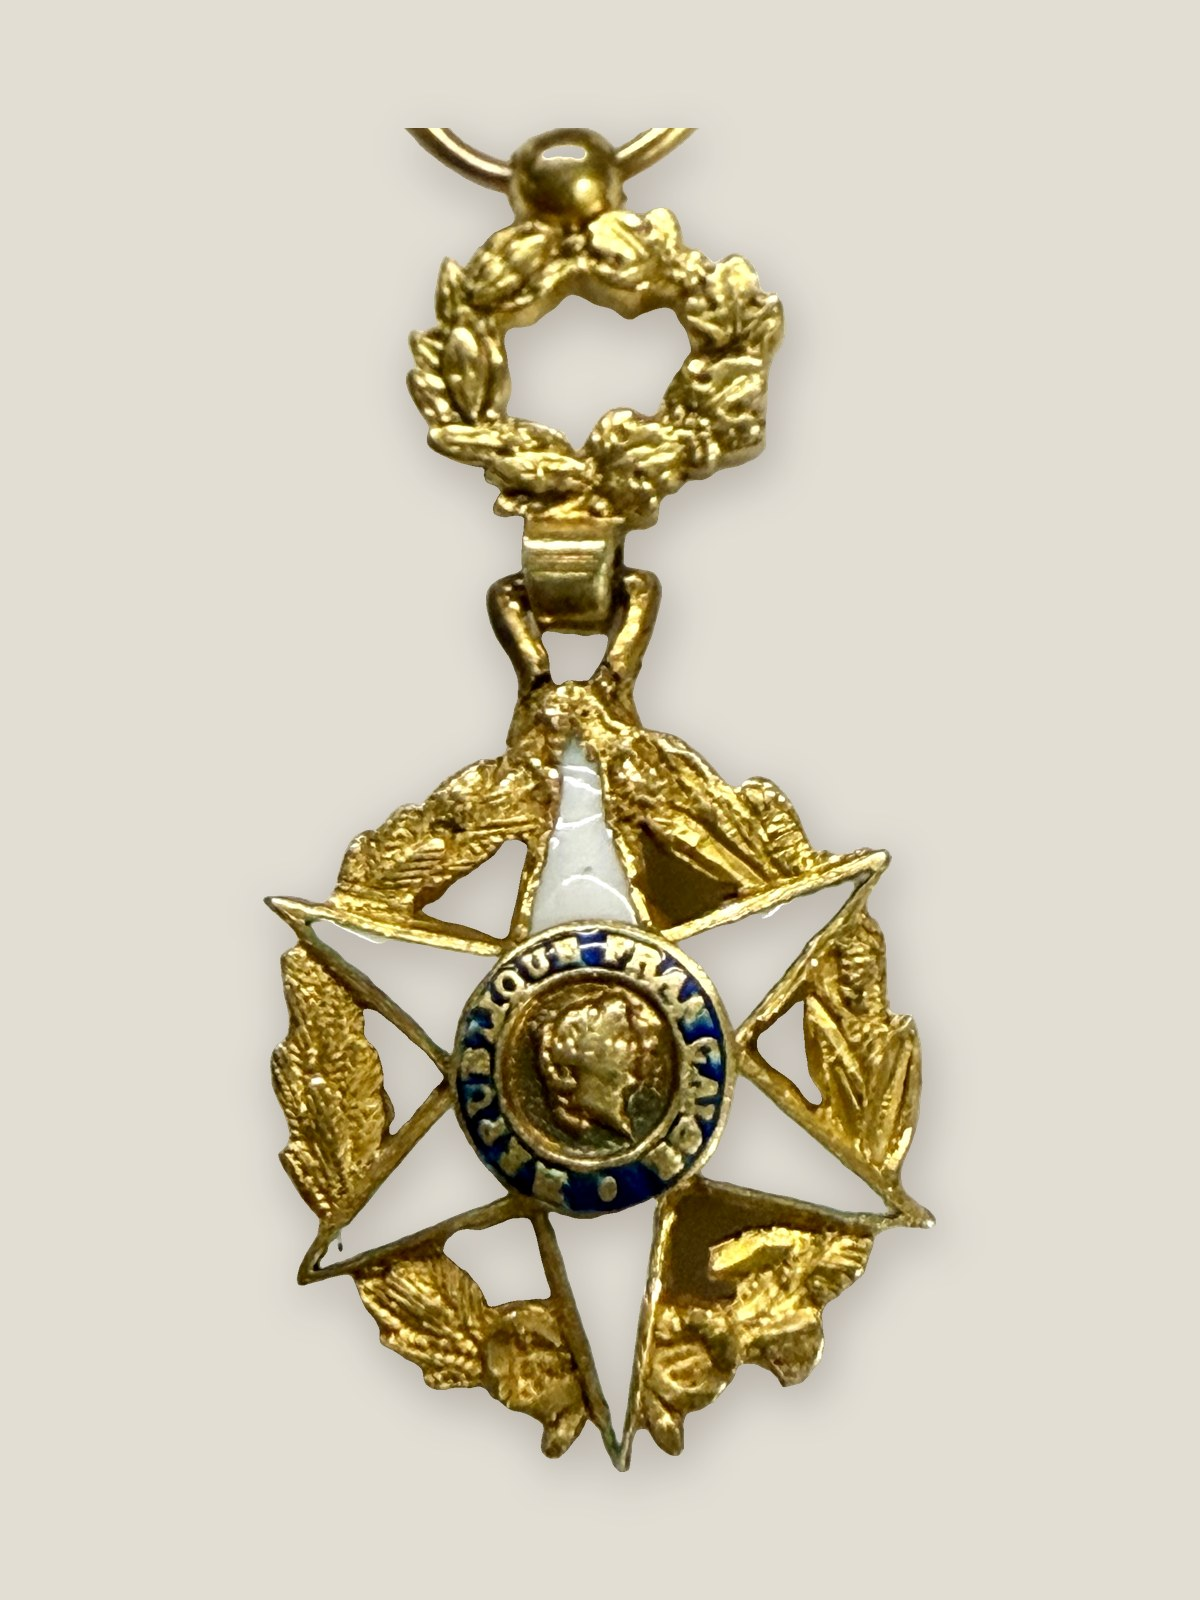
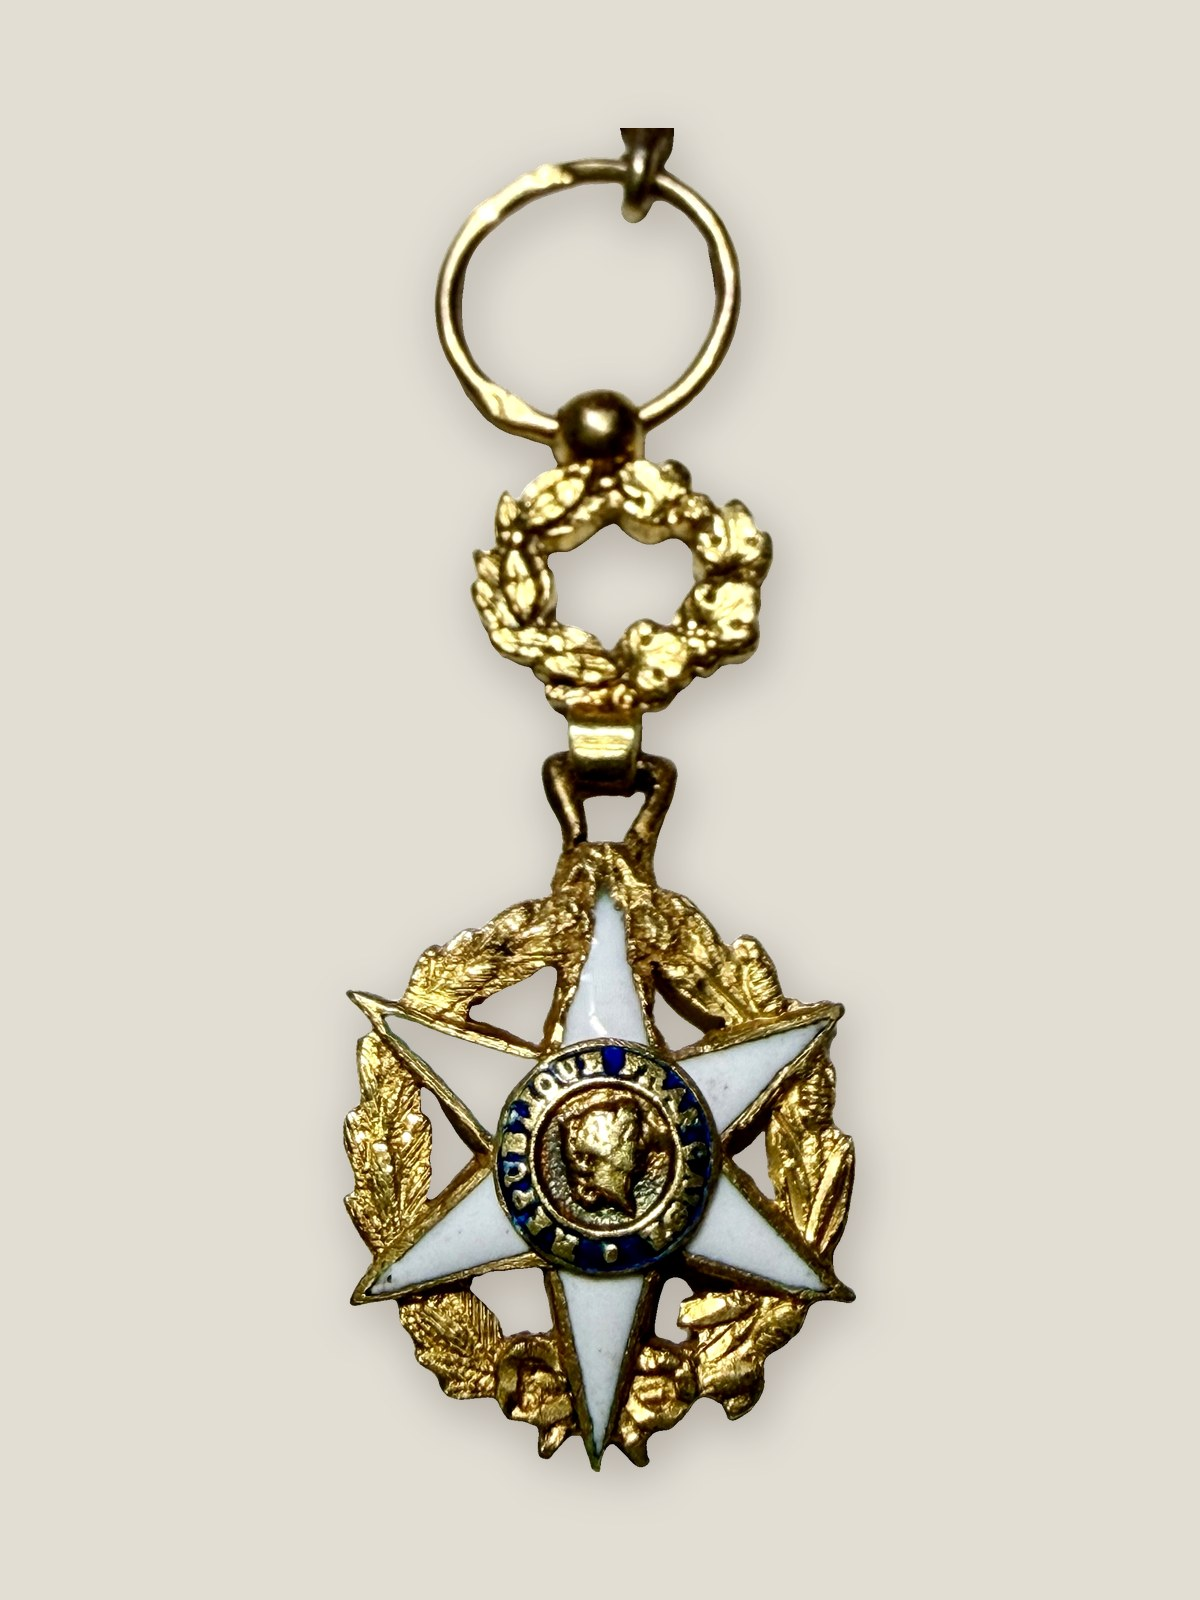
c016 农业功绩正面特写换为重拍照，补回白珐琅星臂
Claude-Session: https://claude.ai/code/session_0146WwfpqSoST3wS5kAsYEcA

Changed region(s): [[0.2158, 0.0625, 0.7708, 0.9375]]

diff --git a/tools/standardize.py b/tools/standardize.py
@@ -60,8 +60,10 @@ CHRONICLE_FIT = {"c006b", "c015b"}
 # Group photographs used as article covers that are cut out like item covers: id -> folder
 EXTRA_CUT_OUT = {"r016": "regalia"}
 # Cut-outs that drop a part close to the ground tone (white enamel): source-pixel seeds whose enclosed transparent
-# region is filled back in. c016g: the upper arm of the Merite agricole star, enclosed by the suspension legs.
-FILL_HOLE = {"c016g": [(1436, 1500)]}
+# region is filled back in. c016g: the upper arm of the Merite agricole star, enclosed by the suspension legs;
+# c016d: the six arms of the same star seen from the front.
+FILL_HOLE = {"c016g": [(1436, 1500)],
+             "c016d": [(900, 1570), (640, 1700), (1180, 1710), (600, 2090), (1220, 2090), (900, 2250)]}
 
 
 def source(folder, name):

diff --git a/_notes/站点手册.md b/_notes/站点手册.md
@@ -216,7 +216,7 @@
 
 ## 六、待办与待补
 
-- t028 与 c016 的照片已于 2026 年 10 月到货，全部抠图置浅灰米底，补足 3:4（曾试 3:2 横图，策展人定仍用 3:4）。同月策展人另交一组六张替换首批：封面为链条 U 形下垂、两针朝上的正面照；札记 grid6 两列三行，第一行为整链正面与背面，以下依次为学术棕榈、农业功绩勋章、互助会奖章、突尼斯荣耀勋章的正面特写（c016b 背面，c016c–c016f 特写），左上、右上、左下、右下。四张特写原照顶端裁到吊环，抠图后吊环顶端为直边。首批原图存 `_archive/treasures/t028_v1.jpg` 与 `_archive/chronicles/c016b_v1.jpg`–`c016f_v1.jpg`。整链正面与背面随后换为策展人调亮的版本，前一版存 `_archive/treasures/t028_v2.jpg` 与 `_archive/chronicles/c016b_v2.jpg`。封面其后再换一次策展人新交的正面照，上一版存 `_archive/treasures/t028_v3.jpg`。学术棕榈特写 c016c 随后换为策展人重拍的近照（1512×2016，三张候选中对焦最完整的一张，花枝下半部亦清晰），按策展人指定调整后作原图：亮度 ×1.12 再 ×1.30，对比度以中灰 128 为轴加 10%（不以全图均值为轴，否则浅色背景会把暗色器物压暗）；未调整的相机原片存 `_archive/chronicles/c016c_raw.jpg`，上一版存 `_archive/chronicles/c016c_v2.jpg`。新照吊环完整入画，顶端仅链上跳环出画。组图其后增 c016g：互助会奖章与农业功绩勋章的背面并列（策展人摄，两张候选中取铭文较清晰的一张，「MÉRITE AGRICOLE 1883」与「劳动与社会保障部」环铭均可读），置于组图末位。原片上方的狐尾链斜穿画面，抠图前以修补（inpainting）抹去，只留两环顶端的跳环残段，与其余特写顶端处理一致；之后亮度 ×1.10、对比度以中灰为轴加 10%。未照搬 c016c 的 ×1.456：本张原片较亮，那样会使背景发白而被当成器物抠入、白珐琅大片过曝。抠图时星形上臂的白珐琅因与底色过近被模型丢掉，`standardize.py` 的 `FILL_HOLE` 以一个种子点把这块封闭区域补回并从原片取色。未处理的相机原片存 `_archive/chronicles/c016g_raw.jpg`。同月按曝光对齐四张正面特写：以章体亮部（第 90 百分位亮度）为准，学术棕榈 165、农业功绩 190 已在合理区间，不动；互助会奖章 c016e 只加对比度 10%，突尼斯荣耀勋章 c016f 亮度 ×1.07 并加对比度 10%（均以中灰为轴），调后为 173 与 163。未照搬学术棕榈的 ×1.456：那样农业功绩白珐琅过曝约 14%、互助会约 10%，组图反而更不齐。学术棕榈在组图中仍显最暗，原因是深紫珐琅、氧化银面与玫瑰切钻本身吸光，不是曝光不足。调整前的原图存 `_archive/chronicles/c016e_v2.jpg`、`c016f_v2.jpg`。随后补入柬埔寨莫尼萨拉蓬特写 c016h（策展人摄），按链上次序置于突尼斯之后、两章背面之前，组图共八张，桌面两列四行齐整。原片顶端露出狐尾链，以 `CROP_TOP` 裁去顶部 4%，只留跳环残段；只加对比度 10%（以中灰为轴），亮度不动：此章为氧化银，抠图流程的温和归一已把亮部拉到与金色吊环一致，再提亮只增加过曝。未处理的相机原片存 `_archive/chronicles/c016h_raw.jpg`。
+- t028 与 c016 的照片已于 2026 年 10 月到货，全部抠图置浅灰米底，补足 3:4（曾试 3:2 横图，策展人定仍用 3:4）。同月策展人另交一组六张替换首批：封面为链条 U 形下垂、两针朝上的正面照；札记 grid6 两列三行，第一行为整链正面与背面，以下依次为学术棕榈、农业功绩勋章、互助会奖章、突尼斯荣耀勋章的正面特写（c016b 背面，c016c–c016f 特写），左上、右上、左下、右下。四张特写原照顶端裁到吊环，抠图后吊环顶端为直边。首批原图存 `_archive/treasures/t028_v1.jpg` 与 `_archive/chronicles/c016b_v1.jpg`–`c016f_v1.jpg`。整链正面与背面随后换为策展人调亮的版本，前一版存 `_archive/treasures/t028_v2.jpg` 与 `_archive/chronicles/c016b_v2.jpg`。封面其后再换一次策展人新交的正面照，上一版存 `_archive/treasures/t028_v3.jpg`。学术棕榈特写 c016c 随后换为策展人重拍的近照（1512×2016，三张候选中对焦最完整的一张，花枝下半部亦清晰），按策展人指定调整后作原图：亮度 ×1.12 再 ×1.30，对比度以中灰 128 为轴加 10%（不以全图均值为轴，否则浅色背景会把暗色器物压暗）；未调整的相机原片存 `_archive/chronicles/c016c_raw.jpg`，上一版存 `_archive/chronicles/c016c_v2.jpg`。新照吊环完整入画，顶端仅链上跳环出画。组图其后增 c016g：互助会奖章与农业功绩勋章的背面并列（策展人摄，两张候选中取铭文较清晰的一张，「MÉRITE AGRICOLE 1883」与「劳动与社会保障部」环铭均可读），置于组图末位。原片上方的狐尾链斜穿画面，抠图前以修补（inpainting）抹去，只留两环顶端的跳环残段，与其余特写顶端处理一致；之后亮度 ×1.10、对比度以中灰为轴加 10%。未照搬 c016c 的 ×1.456：本张原片较亮，那样会使背景发白而被当成器物抠入、白珐琅大片过曝。抠图时星形上臂的白珐琅因与底色过近被模型丢掉，`standardize.py` 的 `FILL_HOLE` 以一个种子点把这块封闭区域补回并从原片取色。未处理的相机原片存 `_archive/chronicles/c016g_raw.jpg`。同月按曝光对齐四张正面特写：以章体亮部（第 90 百分位亮度）为准，学术棕榈 165、农业功绩 190 已在合理区间，不动；互助会奖章 c016e 只加对比度 10%，突尼斯荣耀勋章 c016f 亮度 ×1.07 并加对比度 10%（均以中灰为轴），调后为 173 与 163。未照搬学术棕榈的 ×1.456：那样农业功绩白珐琅过曝约 14%、互助会约 10%，组图反而更不齐。学术棕榈在组图中仍显最暗，原因是深紫珐琅、氧化银面与玫瑰切钻本身吸光，不是曝光不足。调整前的原图存 `_archive/chronicles/c016e_v2.jpg`、`c016f_v2.jpg`。随后补入柬埔寨莫尼萨拉蓬特写 c016h（策展人摄），按链上次序置于突尼斯之后、两章背面之前，组图共八张，桌面两列四行齐整。原片顶端露出狐尾链，以 `CROP_TOP` 裁去顶部 4%，只留跳环残段；只加对比度 10%（以中灰为轴），亮度不动：此章为氧化银，抠图流程的温和归一已把亮部拉到与金色吊环一致，再提亮只增加过曝。未处理的相机原片存 `_archive/chronicles/c016h_raw.jpg`。农业功绩正面特写 c016d 其后换为策展人重拍的一张（更清晰，吊环完整入画，与其余特写一致），只加对比度 10%；抠图时白珐琅六臂几乎全被模型当作底色丢掉（旧版亦缺两臂），以 `FILL_HOLE` 的六个种子点补回，星臂与花环之间的真镂空仍透底。上一版存 `_archive/chronicles/c016d_v2.jpg`，相机原片存 `c016d_raw.jpg`。
 - 全站图片亮度与对比度校准（2026 年 10 月）：对网页实际可见的 92 张图逐张测量，抠图件取器物本身、实拍件取整幅的平均亮度与亮度标准差（对比度），按浅灰米抠图、黑底、实拍底三组各自比较。只处理偏离组均值约 1.5 个标准差以上、且偏离不由材质本身造成的图，且只往均值挪一小段：灰色与深色礼服 r002、r006、r015 加对比度（原片 ×1.3，经抠图流程归一后实际约 +5–15%），深色礼服 r005、r007、r012 以 gamma 0.85–0.9 提亮中间调；实拍细部 c001c、c003d（深色呢料）提亮中间调，c003c（灰呢纽扣）、c009b（珍珠刺绣）、c015c（Spink 内衬）加对比度 15%，后两者略压亮度。白缎、黑丝绒、金器等因材质而偏亮或偏暗者不动（如 t026、c013c、c013f、r009、c014d、c017d）；c013h 的 3:2 内衬图为另行裁正的派生图，未纳入。c008d 奥地利勋章证书另作处理：按各行文字的倾斜（自上而下约 0.6° 增至 2°）逐行拉平透视，裁去四周约 5% 后保持 3:4，校平纸面光照不均，纸色定在暖白（约 229/221/201），文字压深。原图仅 480×640，仍在建议重拍之列。以上各图调整前的原片均存 `_archive/<分类>/<编号>_v1.jpg`。
 - 建议重拍（原图长边不足 1000 像素）：r012、c002b、c008d（t014 与 c006b 已于 2026 年 10 月重拍）。r014、t025、r009、c002c、c008c、c009b 在 770 至 960 像素之间，有机会再补。
 - 断代依据（2026 年 10 月核定）：t021 荣誉军团为四共型，正面无「1870」、背面无创设日期，年份写「1951–1962」；t020 弗朗茨·约瑟夫像配战时绶带无剑饰，年份写「1914–1916」；t026 的 1928 年据埃及印记年号「D」，只在札记中说明，灯箱与卡片不写依据。t015 中心花押经与历任贝伊花押对照为穆罕默德八世·拉明的镂空式样：卡片年份保持「约1950」，灯箱著录只写「贝伊签名花押（1943–1957）」，贝伊名与统治期写在札记（2026 年 10 月，策展人决定）。待查：t027 Spink 迁址年份、t014 制作者印记。
